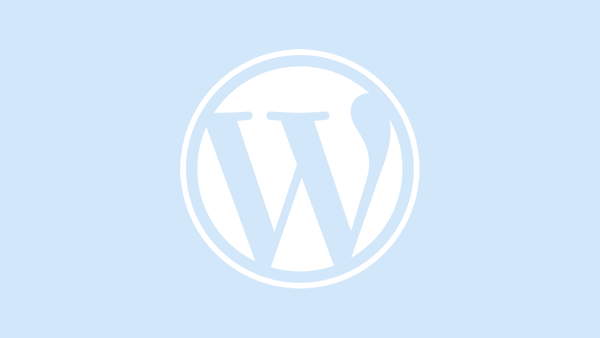
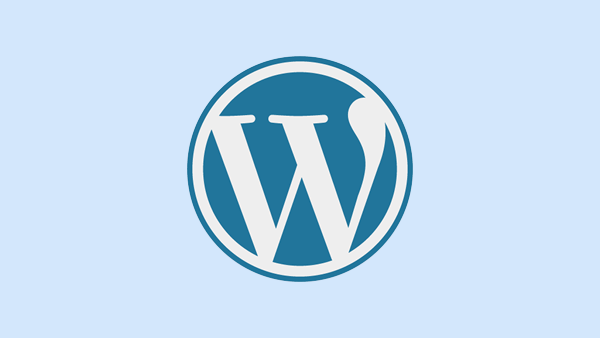
- Re-added images that were overwritten from this morning - Styled the "you've installed x" spans in welcome page - Fixed issue with nav-clear nav width - Replaced the WordPress 4.0 image in "you require" section of welcome page - Reformatted code in preset-layouts.php

Changed region(s): [[0.3, 0.1479, 0.72, 0.858]]

diff --git a/core/assets/admin.css b/core/assets/admin.css
@@ -1202,7 +1202,9 @@ input[type=text].layers-color-selector.wp-color-picker{
     padding: 0;
     margin: 0;
 }
-.layers-accordion-item{margin-bottom: 0;}
+.layers-accordion-item{
+    margin-bottom: 0;
+}
 .layers-accordion-title{
     display: block;
     margin: 0;
@@ -1314,7 +1316,6 @@ input[type=text].layers-color-selector.wp-color-picker{
 
 /*---------------------------*/
 /*- PANEL -------------------*/
-.layers-panel{}
 .layers-panel-title{
     display: block;
     margin: 0;
@@ -1339,7 +1340,7 @@ input[type=text].layers-color-selector.wp-color-picker{
 /*- MEDIA -------------------*/
 .layers-media{overflow: hidden; margin-bottom: 20px; display: block;}
 
-.layers-media-image{text-align: center; margin-right: auto; margin-left: auto; max-height: 450px; overflow: hidden; border: 1px solid #ddd;}
+.layers-media-image{text-align: center; margin-right: auto; margin-left: auto; max-height: 450px; overflow: hidden;}
 .layers-media-image img{display: block; margin: auto; max-width: 100%; height: auto;}
 .layers-media-image.layers-small img{max-width: 64px;}
 
@@ -1410,11 +1411,26 @@ input[type=text].layers-color-selector.wp-color-picker{
     opacity: 0;
     transition: all 0.2s ease-in-out;}
 
-.tooltip:hover:after{opacity: 1; visibility: visible; top: 25px;}
-.tooltip:hover:before{opacity: 1; visibility: visible; top: 19px;}
+.tooltip:hover:after{
+    opacity: 1;
+    visibility: visible;
+    top: 25px;
+}
+.tooltip:hover:before{
+    opacity: 1;
+    visibility: visible;
+    top: 19px;
+}
 
-.layers-accordion-title .tooltip{
-    margin-right: 35px;
+
+/*---------------------------*/
+/*- ICON STYLING ------------*/
+.layers-success{
+    display: inline-block;
+    font-weight: bold;
+    border: 2px solid #A3C567;
+    padding: 5px 15px;
+    background: #fff;
 }
 
 

diff --git a/assets/css/components.css b/assets/css/components.css
@@ -207,7 +207,7 @@ section[class*=' off-canvas-'] .close-canvas{
         .nav-clear .site-logo-link + .sitename{margin-top: 10px;}
         .nav-clear .site-logo-link + .tagline{margin-top: 10px;}
 
-    .nav-clear nav{float: none; clear: both; margin: 10px 0 0;}
+    .nav-clear nav{display: block; float: none; clear: both; margin: 10px 0 0;}
 
     /*---------------------------*/
     /*- SECONDARY HEADER --------*/

diff --git a/core/options-panel/partials/preset-layouts.php b/core/options-panel/partials/preset-layouts.php
@@ -9,67 +9,71 @@ $find_builder_page = layers_get_builder_pages(); ?>
 
 <section class="layers-welcome">
 
-   <div class="layers-page-title layers-section-title layers-large layers-content-massive layers-no-push-bottom">
-      <div class="layers-container">
-         <h2 class="layers-heading" id="layers-options-header">
-            <?php _e( 'Select a Layout', LAYERS_THEME_SLUG ); ?>
-         </h2>
-         <p class="layers-excerpt">
-            <?php _e( 'Get started with a blank canvas or choose from a variety of preset layouts to help you fast track your website creation.', LAYERS_THEME_SLUG ); ?>
-         </p>
-      </div>
-   </div>
+    <div class="layers-page-title layers-section-title layers-large layers-content-massive layers-no-push-bottom">
+        <div class="layers-container">
+            <h2 class="layers-heading" id="layers-options-header">
+                <?php _e( 'Select a Layout', LAYERS_THEME_SLUG ); ?>
+            </h2>
+            <p class="layers-excerpt">
+                <?php _e( 'Get started with a blank canvas or choose from a variety of preset layouts to help you fast track your website creation.', LAYERS_THEME_SLUG ); ?>
+            </p>
+        </div>
+    </div>
 
-   <div class="layers-row layers-well layers-content-massive">
-      <div class="layers-browser">
-         <div class="layers-products">
-            <div class="layers-product blank-product" id="layers-generate-preset-layout-blank" data-key="layers-preset-layout-blank">
-               <input id="layers-preset-layout-blank-title" type="hidden" value="<?php _e( 'Blank' , LAYERS_THEME_SLUG ); ?>" />
-               <input id="layers-preset-layout-blank-widget_data" type="hidden" value="<?php json_encode( array() ); ?>" />
-               <div class="layers-product-screenshot">
-                  <span></span>
-               </div>
-               <h3 class="layers-product-name"><?php _e( 'Blank Canvas' , LAYERS_THEME_SLUG ); ?></h3>
+    <div class="layers-row layers-well layers-content-massive">
+        <div class="layers-browser">
+            <div class="layers-products">
+                <div class="layers-product blank-product" id="layers-generate-preset-layout-blank" data-key="layers-preset-layout-blank">
+                    <input id="layers-preset-layout-blank-title" type="hidden" value="<?php _e( 'Blank' , LAYERS_THEME_SLUG ); ?>" />
+                    <input id="layers-preset-layout-blank-widget_data" type="hidden" value="<?php json_encode( array() ); ?>" />
+                    <div class="layers-product-screenshot">
+                        <span></span>
+                    </div>
+                    <h3 class="layers-product-name"><?php _e( 'Blank Canvas' , LAYERS_THEME_SLUG ); ?></h3>
+                </div>
+
+                <?php foreach( $layers_migrator->get_preset_layouts() as $template_key => $template ) { ?>
+                    <div class="layers-product active  <?php echo ( isset( $template[ 'container_css' ] ) ?  $template[ 'container_css' ] : '' ); ?>" tabindex="0">
+
+                        <input id="layers-preset-layout-<?php echo $template_key; ?>-title" type="hidden" value="<?php echo $template[ 'title' ]; ?>" />
+                        <input id="layers-preset-layout-<?php echo $template_key; ?>-widget_data" type="hidden" value="<?php echo esc_attr( $template[ 'json' ] ); ?>" />
+                        
+                        <div class="layers-product-screenshot">
+                            <?php echo $layers_migrator->generate_preset_layout_screenshot( $template[ 'screenshot' ], $template[ 'screenshot_type' ] ); ?>
+                        </div>
+                        
+                        <h3 class="layers-product-name" id="<?php echo $template_key; ?>"><?php echo $template[ 'title' ]; ?></h3>
+                        
+                        <div class="layers-product-actions">
+                            <a class="layers-button btn-primary customize load-customize" id="layers-generate-preset-layout-<?php echo $template_key; ?>"  data-key="layers-preset-layout-<?php echo $template_key; ?>">
+                                <?php _e( 'Select Layout', LAYERS_THEME_SLUG ); ?>
+                            </a>
+                        </div>
+                    </div>
+                <?php } // Get Preset Layouts ?>
             </div>
-            <?php foreach( $layers_migrator->get_preset_layouts() as $template_key => $template ) { ?>
-               <div class="layers-product active  <?php echo ( isset( $template[ 'container_css' ] ) ?  $template[ 'container_css' ] : '' ); ?>" tabindex="0">
-
-                  <input id="layers-preset-layout-<?php echo $template_key; ?>-title" type="hidden" value="<?php echo $template[ 'title' ]; ?>" />
-                  <input id="layers-preset-layout-<?php echo $template_key; ?>-widget_data" type="hidden" value="<?php echo esc_attr( $template[ 'json' ] ); ?>" />
-
-
-                  <div class="layers-product-screenshot">
-                     <?php echo $layers_migrator->generate_preset_layout_screenshot( $template[ 'screenshot' ], $template[ 'screenshot_type' ] ); ?>
-                  </div>
-                  <h3 class="layers-product-name" id="<?php echo $template_key; ?>"><?php echo $template[ 'title' ]; ?></h3>
-                  <div class="layers-product-actions">
-                     <a class="layers-button btn-primary customize load-customize" id="layers-generate-preset-layout-<?php echo $template_key; ?>"  data-key="layers-preset-layout-<?php echo $template_key; ?>"><?php _e( 'Select Layout', LAYERS_THEME_SLUG ); ?></a>
-                  </div>
-               </div>
-            <?php } // Get Preset Layouts ?>
-         </div>
-      </div>
-   </div>
+        </div>
+    </div>
 
 </section>
 
 <section class="layers-modal layers-hide">
-   <div class="layers-vertical-center">
-      <div class="layers-section-title layers-text-center layers-container">
+    <div class="layers-vertical-center">
+        <div class="layers-section-title layers-text-center layers-container">
 
-         <h2 class="layers-heading" id="layers-options-header">
-            <?php _e( 'Creating Your Page', LAYERS_THEME_SLUG ); ?>
-         </h2>
-         <p class="layers-excerpt layers-push-bottom">
-            <?php _e( 'We\'re busy importing dummy content, placing some widgets and adding some content, promise it won\'t take long. Once we\'re done, you\'ll be redirected to
-            the Visual Customizer so that you can start building your page.' , LAYERS_THEME_SLUG ); ?>
-         </p>
-         <div class="layers-load-bar">
-            <span class="layers-progress zero">0%</span>
-         </div>
-
-      </div>
-   </div>
+            <h2 class="layers-heading" id="layers-options-header">
+                <?php _e( 'Creating Your Page', LAYERS_THEME_SLUG ); ?>
+            </h2>
+            <p class="layers-excerpt layers-push-bottom">
+                <?php _e( 'We\'re busy importing dummy content, placing some widgets and adding some content, promise it won\'t take long. Once we\'re done, you\'ll be redirected to
+                the Visual Customizer so that you can start building your page.' , LAYERS_THEME_SLUG ); ?>
+            </p>
+            <div class="layers-load-bar">
+                <span class="layers-progress zero">0%</span>
+            </div>
+            
+        </div>
+    </div>
 </section>
 
 <?php $this->footer(); ?>

diff --git a/core/options-panel/partials/welcome.php b/core/options-panel/partials/welcome.php
@@ -41,7 +41,7 @@ $find_builder_page = layers_get_builder_pages(); ?>
 							</p>
 							<div class="layers-btn-group">
 								<?php if( 4.0 <= get_bloginfo('version') ) { ?>
-									<span class="tick"><?php _e( 'You\'re up to date.' , LAYERS_THEME_SLUG ); ?></span>
+									<span class="layers-success"><?php _e( 'You\'re up to date' , LAYERS_THEME_SLUG ); ?></span>
 								<?php } else { ?>
 									<a class="layers-button btn-primary" href="<?php echo admin_url( '/update-core.php' ); ?>" target="_blank"><?php _e( 'Update WordPress', LAYERS_THEME_SLUG ); ?></a>
 								<?php } ?>
@@ -59,7 +59,7 @@ $find_builder_page = layers_get_builder_pages(); ?>
 							</p>
 							<div class="layers-btn-group">
 								<?php if( defined( 'JETPACK__VERSION' ) ) { ?>
-									<span class="tick"><?php _e( 'Jetpack is installed.', LAYERS_THEME_SLUG ); ?></span>
+									<span class="layers-success"><?php _e( 'Jetpack is installed', LAYERS_THEME_SLUG ); ?></span>
 								<?php } else { ?>
 									<a class="layers-button btn-primary" href="<?php echo admin_url( '/plugin-install.php?tab=search&s=Jetpack'); ?>" target="_blank"><?php _e( 'Install Jetpack', LAYERS_THEME_SLUG ); ?></a>
 								<?php } ?>
@@ -77,7 +77,7 @@ $find_builder_page = layers_get_builder_pages(); ?>
 							</p>
 							<div class="layers-btn-group">
 								<?php if( class_exists( 'Layers_WooCommerce' ) ) { ?>
-									<span class="tick"><?php _e( 'Instaled.', LAYERS_THEME_SLUG ); ?></span>
+									<span class="layers-success"><?php _e( 'WooCommerce Extension Installed', LAYERS_THEME_SLUG ); ?></span>
 								<?php } else { ?>
 									<a class="layers-button btn-primary" href="<?php echo 'http://cdn.oboxsites.com/layers/layers-woocommerce.zip?ver=' . rand(0 , 100); ?>" target="_blank"><?php _e( 'Install WooCommerce for Layers', LAYERS_THEME_SLUG ); ?></a>
 								<?php } ?>
